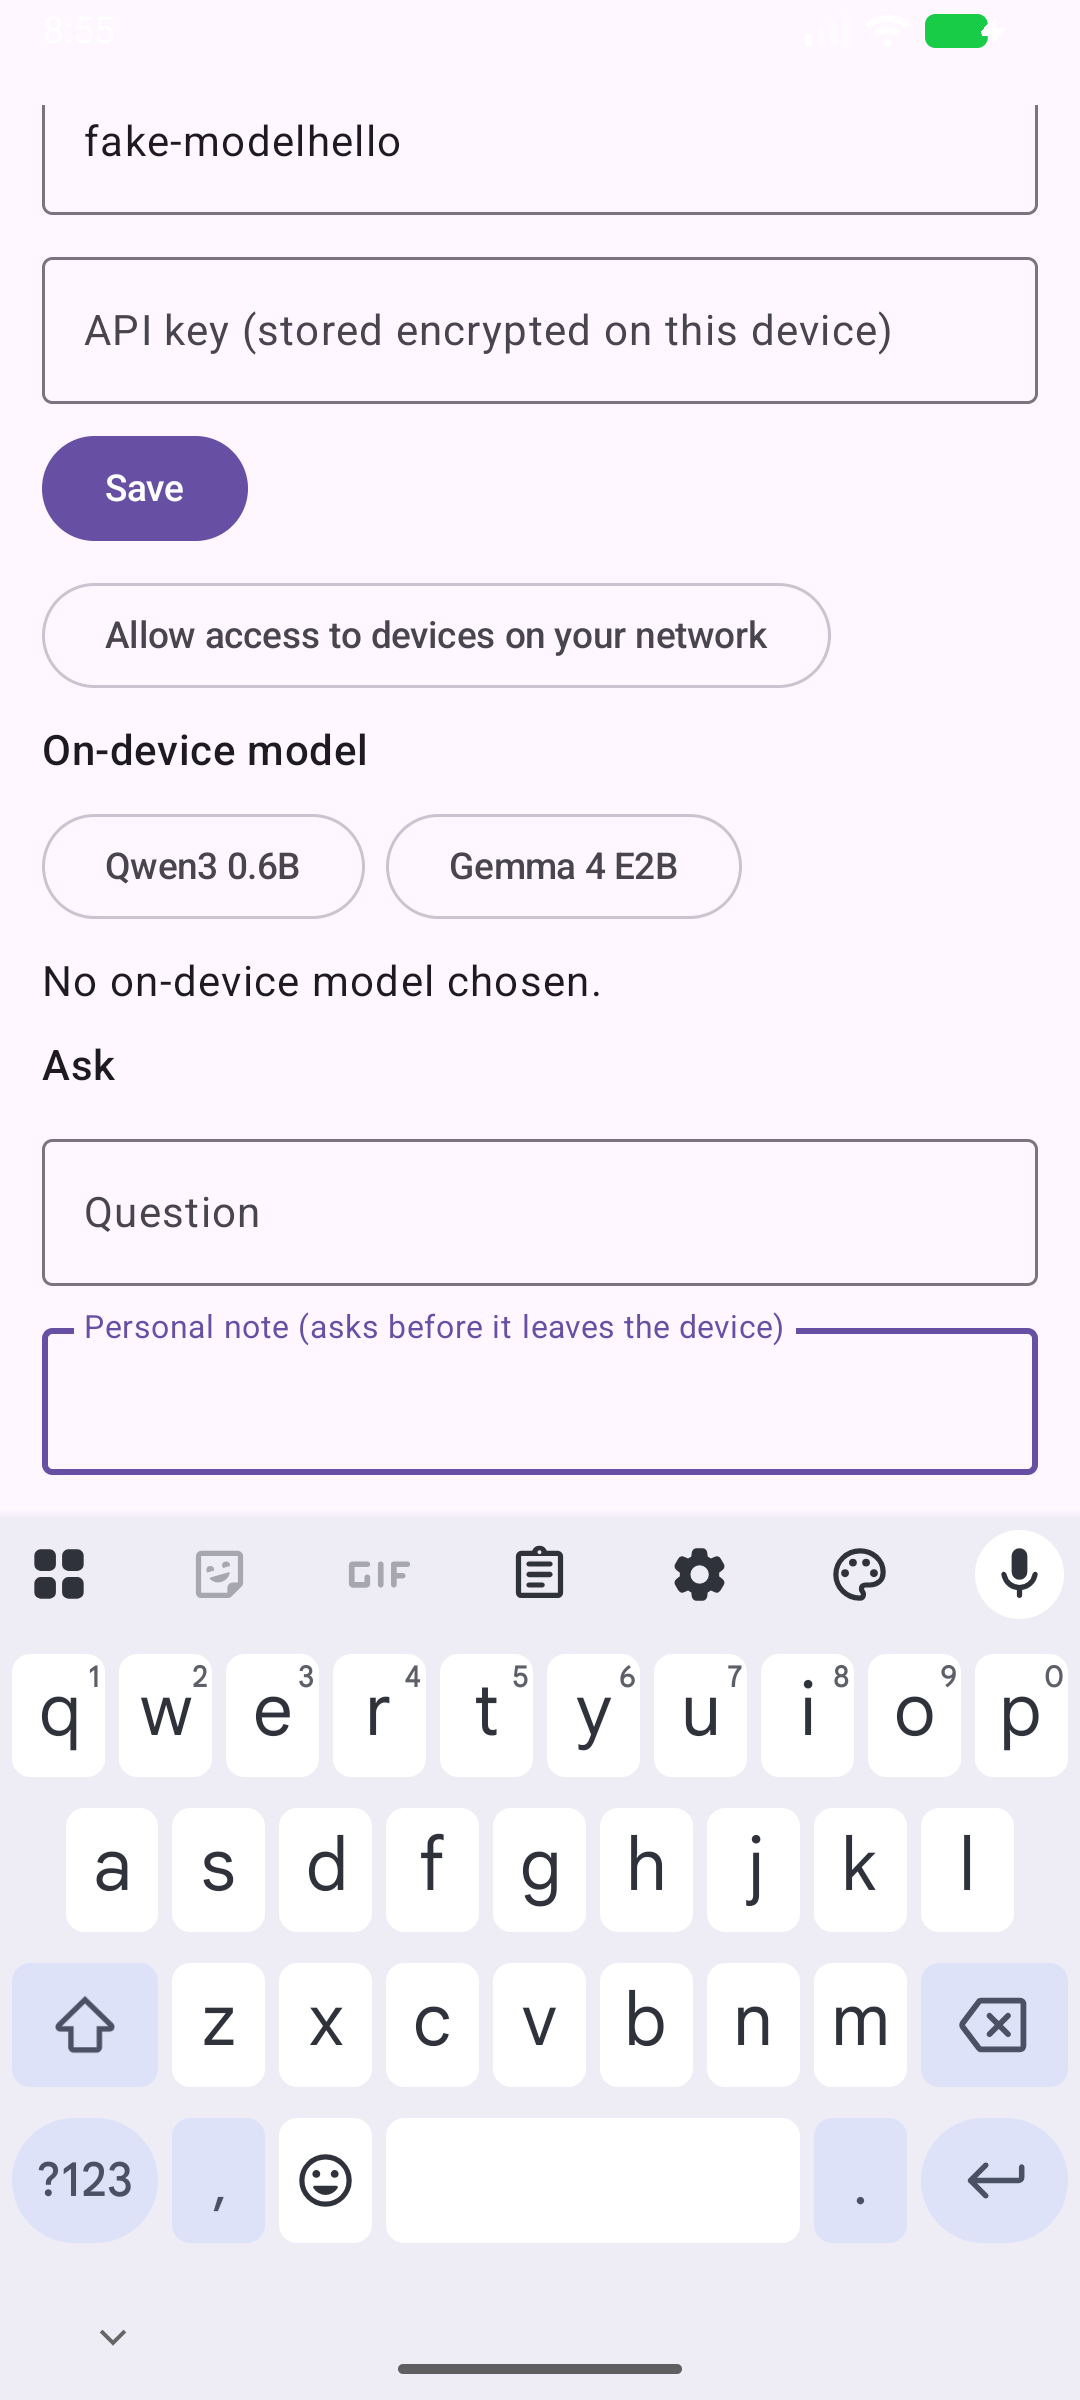
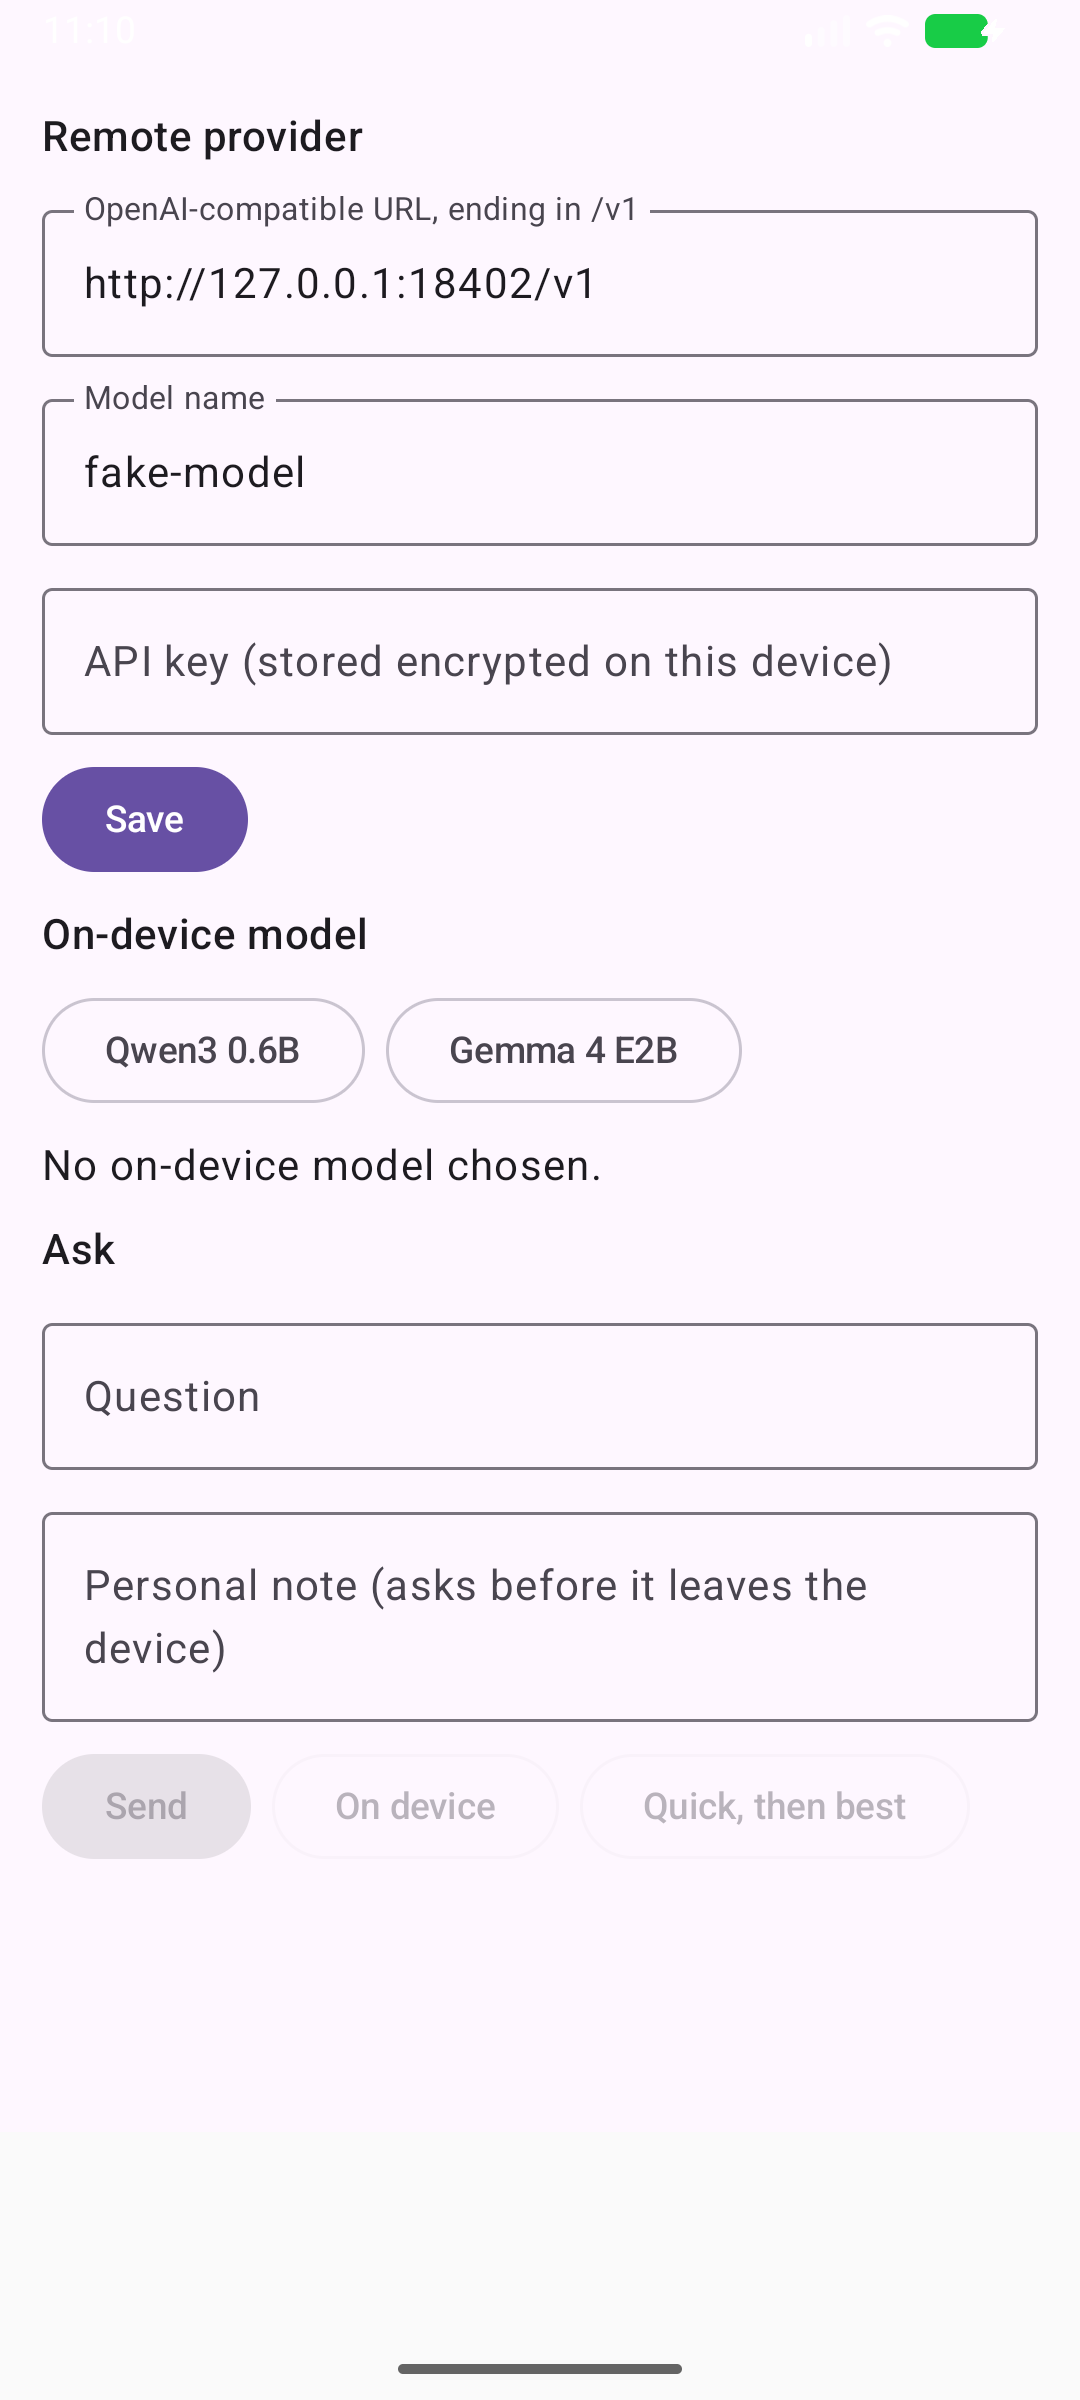
Example app: journey script, loopback exempt from the local-network gate
The example journey drives the app by on-screen text and passes on an Android 17
emulator: a request completes, the approval dialog appears and a refusal skips
the remote provider, and settings survive a restart.

diff --git a/examples/compose-hilt/app/src/main/kotlin/io/github/pdrakeweb/llmtiers/example/Ai.kt b/examples/compose-hilt/app/src/main/kotlin/io/github/pdrakeweb/llmtiers/example/Ai.kt
@@ -105,8 +105,8 @@ class AiGateway @Inject constructor(
         // Registration order is the default order of preference.
         if (s.remoteUrl.isNotBlank()) {
             val remote = OpenAiCompatible(REMOTE, s.remoteUrl, s.remoteModel, apiKey = s.apiKey, client = http)
-            // A plain-HTTP URL is a server on the home network: gate it on the Android 17 permission.
-            provider(if (s.remoteUrl.startsWith("http://")) remote.requiringLocalNetworkPermission(context) else remote, quality = 0.9)
+            // A server on the home network needs the Android 17 local-network permission: gate it.
+            provider(if (isHomeNetworkUrl(s.remoteUrl)) remote.requiringLocalNetworkPermission(context) else remote, quality = 0.9)
         }
         s.model()?.let { provider(localModel(it), quality = 0.5) }
         provider(nano, quality = 0.3)
@@ -129,6 +129,13 @@ class AiGateway @Inject constructor(
         const val LOCAL = "local"
     }
 }
+
+/**
+ * A plain-HTTP URL that is not this device itself. Loopback addresses are exempt from the
+ * local-network permission, so a server running on the phone must not be gated on it.
+ */
+fun isHomeNetworkUrl(url: String): Boolean =
+    url.startsWith("http://") && !Regex("""^http://(127\.|localhost[:/]|\[::1])""").containsMatchIn(url)
 
 fun AiSettings.model(): ModelSpec? = OpenModels.all.firstOrNull { it.id == modelId }
 

diff --git a/examples/compose-hilt/app/src/main/kotlin/io/github/pdrakeweb/llmtiers/example/MainActivity.kt b/examples/compose-hilt/app/src/main/kotlin/io/github/pdrakeweb/llmtiers/example/MainActivity.kt
@@ -82,7 +82,7 @@ class SettingsViewModel @Inject constructor(
     }
 
     fun needsLocalNetworkPermission(): Boolean =
-        _settings.value.remoteUrl.startsWith("http://") && needsLocalNetworkPermission(context)
+        isHomeNetworkUrl(_settings.value.remoteUrl) && needsLocalNetworkPermission(context)
 
     fun localNetworkPermissionAnswered() {
         viewModelScope.launch { gateway.forgetRemoteHealth() }

diff --git a/docs/INTEGRATION.md b/docs/INTEGRATION.md
@@ -139,7 +139,7 @@ class AiGateway @Inject constructor(
         // Registration order is the default order of preference.
         if (s.remoteUrl.isNotBlank()) {
             val remote = OpenAiCompatible("remote", s.remoteUrl, s.remoteModel, apiKey = s.apiKey, client = http)
-            provider(if (s.remoteUrl.startsWith("http://")) remote.requiringLocalNetworkPermission(context) else remote, quality = 0.9)
+            provider(if (isHomeNetworkUrl(s.remoteUrl)) remote.requiringLocalNetworkPermission(context) else remote, quality = 0.9)
         }
         provider(nano, quality = 0.3)
 
@@ -302,7 +302,9 @@ val askPermission = rememberLauncherForActivityResult(ActivityResultContracts.Re
 if (needsPermission) OutlinedButton({ askPermission.launch(ACCESS_LOCAL_NETWORK) }) { Text("Allow access to devices on your network") }
 ```
 
-`needsLocalNetworkPermission(context)` tells you whether to show the button. Reset the provider's
+`needsLocalNetworkPermission(context)` tells you whether to show the button. Wrap only
+providers at home-network addresses: a loopback address (`127.0.0.1`, `localhost`) is exempt
+from the permission and must not be gated on it (`isHomeNetworkUrl` in `Ai.kt`). Reset the provider's
 health after the user answers, or the library keeps skipping it for the rest of its cooldown.
 
 ## Step 8 · Downloaded on-device models (optional)
